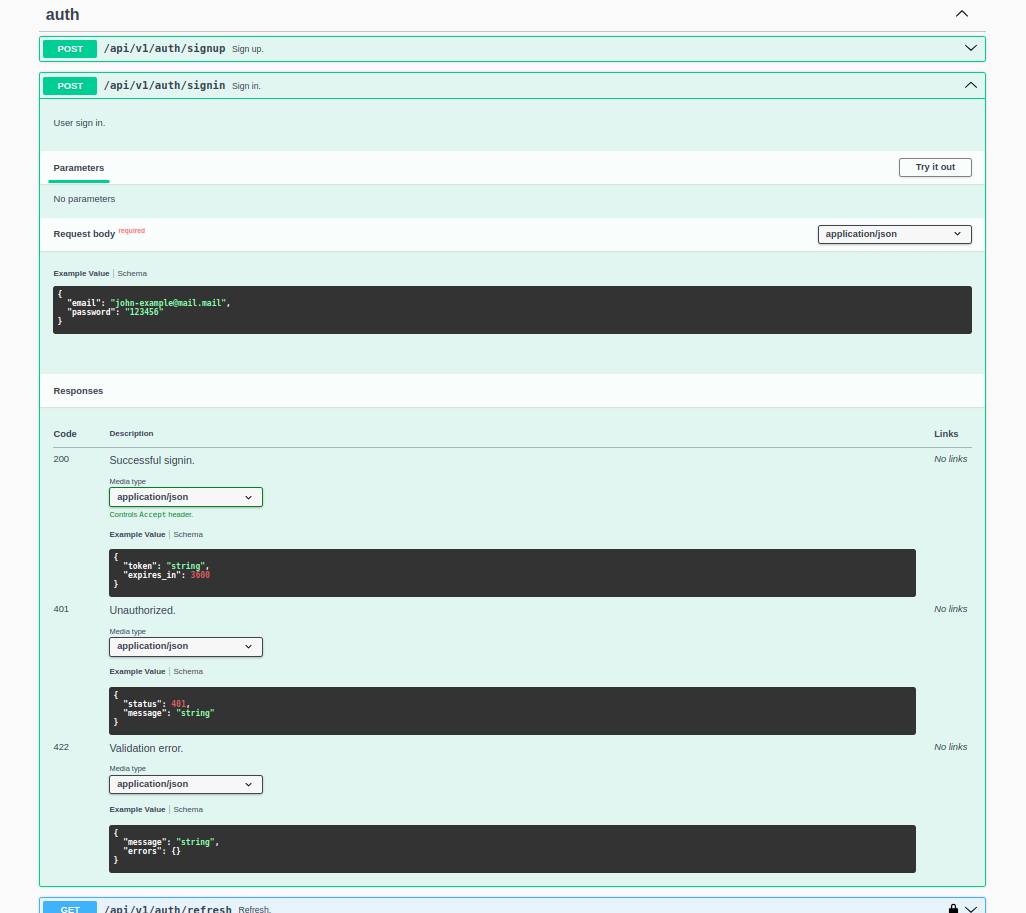
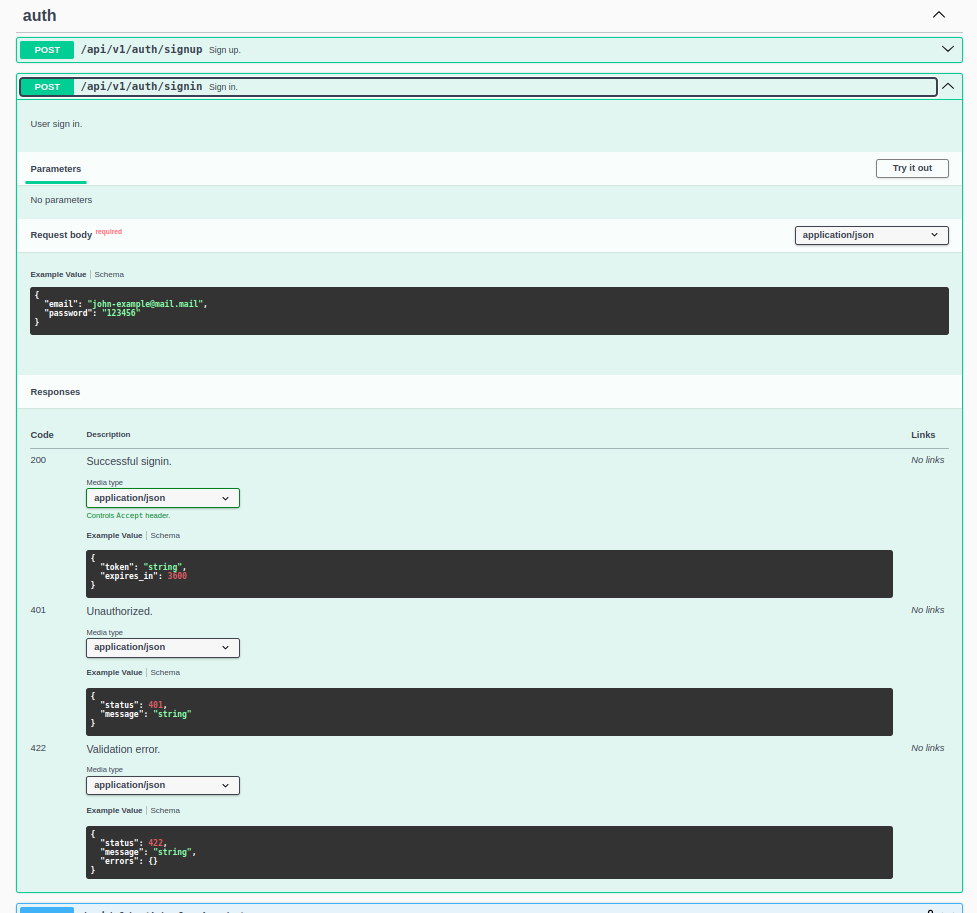
routes, responses and doc corrections

Changed region(s): [[0.0, 0.0, 1.0, 1.0], [0.2149, 0.5214, 0.2456, 0.552]]

diff --git a/app/Exceptions/Handler.php b/app/Exceptions/Handler.php
@@ -2,8 +2,12 @@
 
 namespace App\Exceptions;
 
+use Illuminate\Auth\AuthenticationException;
 use Illuminate\Foundation\Exceptions\Handler as ExceptionHandler;
+use Illuminate\Support\Arr;
+use Illuminate\Validation\ValidationException;
 use Throwable;
+use Symfony\Component\HttpKernel\Exception\UnauthorizedHttpException;
 
 class Handler extends ExceptionHandler
 {
@@ -26,5 +30,67 @@ class Handler extends ExceptionHandler
         $this->reportable(function (Throwable $e) {
             //
         });
+    }
+
+    /**
+     * {@inheritDoc}
+     */
+    public function render($request, Throwable $e)
+    {
+        if ($e instanceof UnauthorizedHttpException) {
+            return $this->unauthorized($request, $e);
+        }
+ 
+        return parent::render($request, $e);
+    }
+
+    /**
+     * Convert an authorization exception into a response.
+     */
+    protected function unauthorized($request, UnauthorizedHttpException $exception)
+    {
+        return $this->shouldReturnJson($request, $exception)
+                    ? response()->json(['status' => 401, 'message' => $exception->getMessage()], 401)
+                    : redirect()->guest($exception->redirectTo() ?? route('login'));
+    }
+
+    /**
+     * {@inheritDoc}
+     */
+    protected function unauthenticated($request, AuthenticationException $exception)
+    {
+        return $this->shouldReturnJson($request, $exception)
+                    ? response()->json(['status' => 401, 'message' => $exception->getMessage()], 401)
+                    : redirect()->guest($exception->redirectTo() ?? route('login'));
+    }
+
+    /**
+     * {@inheritDoc}
+     */
+    protected function invalidJson($request, ValidationException $exception)
+    {
+        return response()->json([
+            'status' => $exception->status,
+            'message' => $exception->getMessage(),
+            'errors' => $exception->errors(),
+        ], $exception->status);
+    }
+
+    /**
+     * {@inheritDoc}
+     */
+    protected function convertExceptionToArray(Throwable $e)
+    {
+        return config('app.debug') ? [
+            'status' => $e->getCode(),
+            'message' => $e->getMessage(),
+            'exception' => get_class($e),
+            'file' => $e->getFile(),
+            'line' => $e->getLine(),
+            'trace' => collect($e->getTrace())->map(fn ($trace) => Arr::except($trace, ['args']))->all(),
+        ] : [
+            'status' => $e->getCode(),
+            'message' => $this->isHttpException($e) ? $e->getMessage() : 'Server Error',
+        ];
     }
 }

diff --git a/routes/api.php b/routes/api.php
@@ -15,18 +15,24 @@ use Illuminate\Support\Facades\Route;
 |
 */
 
-Route::group(['middleware' => 'jwt.auth'], function () {
-    Route::get('posts', [PostController::class, 'list'])->name('posts.list');
-    Route::get('posts/{id}', [PostController::class, 'one'])->name('posts.one');
-    Route::post('posts', [PostController::class, 'add'])->name('posts.add');
-    Route::patch('posts/{id}', [PostController::class, 'update'])->name('posts.update');
-    Route::delete('posts/{id}', [PostController::class, 'delete'])->name('posts.delete');
-});
-
-Route::group(['middleware' => 'api', 'prefix' => 'auth'], function () {
+Route::group(['prefix' => 'auth'], function () {
     Route::post('signup', [AuthController::class, 'signup'])->name('auth.signup');
     Route::post('signin', [AuthController::class, 'signin'])->name('auth.signin');
-    Route::get('refresh', [AuthController::class, 'refresh'])->name('auth.refresh');
-    Route::get('signout', [AuthController::class, 'signout'])->name('auth.signout');
-    Route::get('current-user', [AuthController::class, 'currentUser'])->name('auth.current-user');
+
+    Route::group(['middleware' => 'jwt.auth'], function () {
+        Route::get('refresh', [AuthController::class, 'refresh'])->name('auth.refresh');
+        Route::get('signout', [AuthController::class, 'signout'])->name('auth.signout');
+        Route::get('current-user', [AuthController::class, 'currentUser'])->name('auth.current-user');
+    });
+});
+
+Route::group([], function () {
+    Route::get('posts', [PostController::class, 'list'])->name('posts.list');
+    Route::get('posts/{id}', [PostController::class, 'one'])->name('posts.one');
+
+    Route::group(['middleware' => 'jwt.auth'], function () {
+        Route::post('posts', [PostController::class, 'add'])->name('posts.add');
+        Route::patch('posts/{id}', [PostController::class, 'update'])->name('posts.update');
+        Route::delete('posts/{id}', [PostController::class, 'delete'])->name('posts.delete');
+    });
 });

diff --git a/app/Http/Controllers/PostController.php b/app/Http/Controllers/PostController.php
@@ -19,8 +19,7 @@ class PostController extends Controller
         path: self::BASE_URL . "/posts",
         summary: "List of posts.",
         description: "It returns a list of posts.",
-        tags: ["posts"],
-        security: [['bearerAuth' => []]]
+        tags: ["posts"]
     )]
     #[OA\Response(
         response: 200,
@@ -48,7 +47,6 @@ class PostController extends Controller
         summary: "One post.",
         description: "It returns one post.",
         tags: ["posts"],
-        security: [['bearerAuth' => []]],
         parameters: [
             new OA\Parameter(name: "id", in: "path", required: true, description: "Post id."),
         ]

diff --git a/app/Http/Controllers/Controller.php b/app/Http/Controllers/Controller.php
@@ -29,6 +29,7 @@ use OpenApi\Attributes as OA;
     new OA\Property(property: "message", type: "string", example: "string")
 ])]
 #[OA\Schema(schema: "ValidationError", properties: [
+    new OA\Property(property: "status", type:"integer", example:422),
     new OA\Property(property: "message", type: "string", example: "string"),
     new OA\Property(property: "errors", type:"object", example:"{}")
 ])]

diff --git a/app/Http/Controllers/AuthController.php b/app/Http/Controllers/AuthController.php
@@ -13,11 +13,6 @@ class AuthController extends Controller
 {
     const BASE_URL = '/api/v1/auth';
 
-    public function __construct()
-    {
-        $this->middleware('auth:api', ['except' => ['signin', 'signup']]);
-    }
-
     #[OA\Post(
         path: self::BASE_URL . "/signup",
         summary: "Sign up.",
